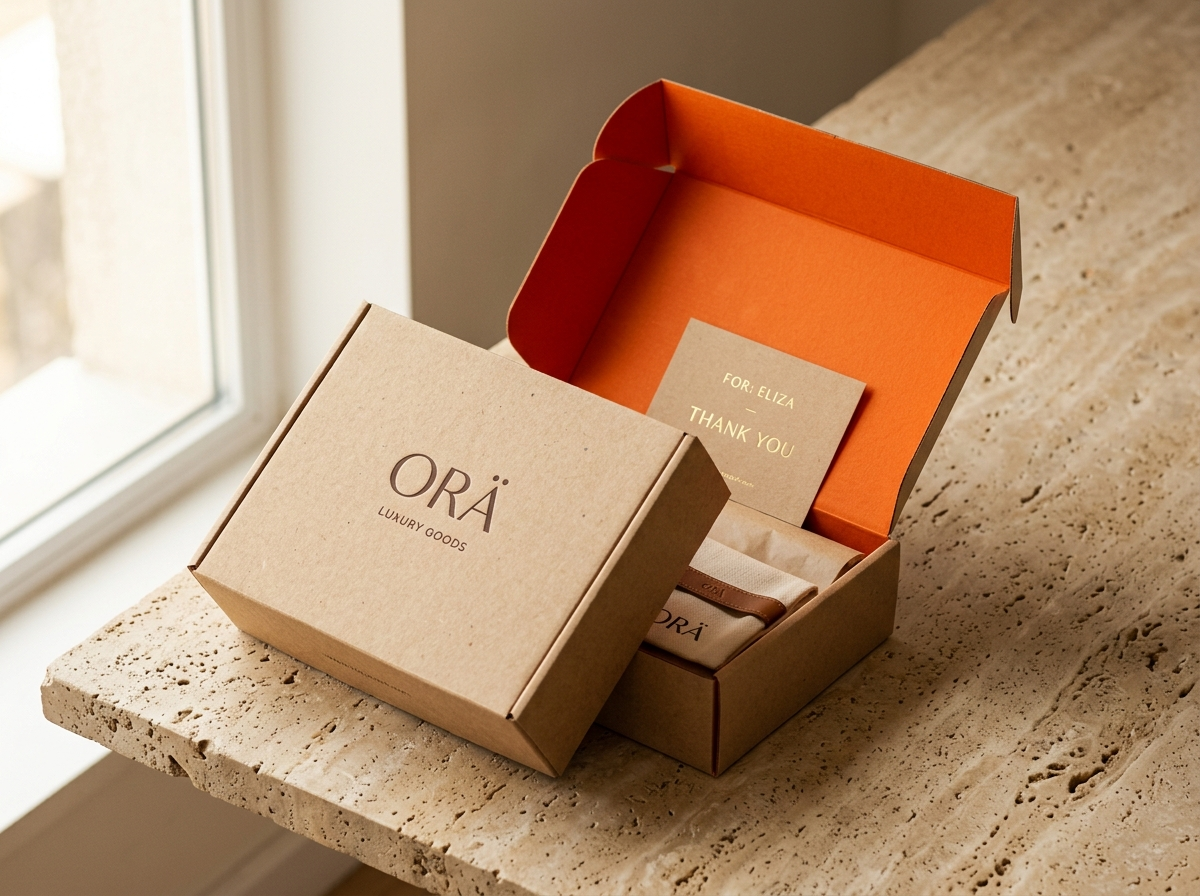
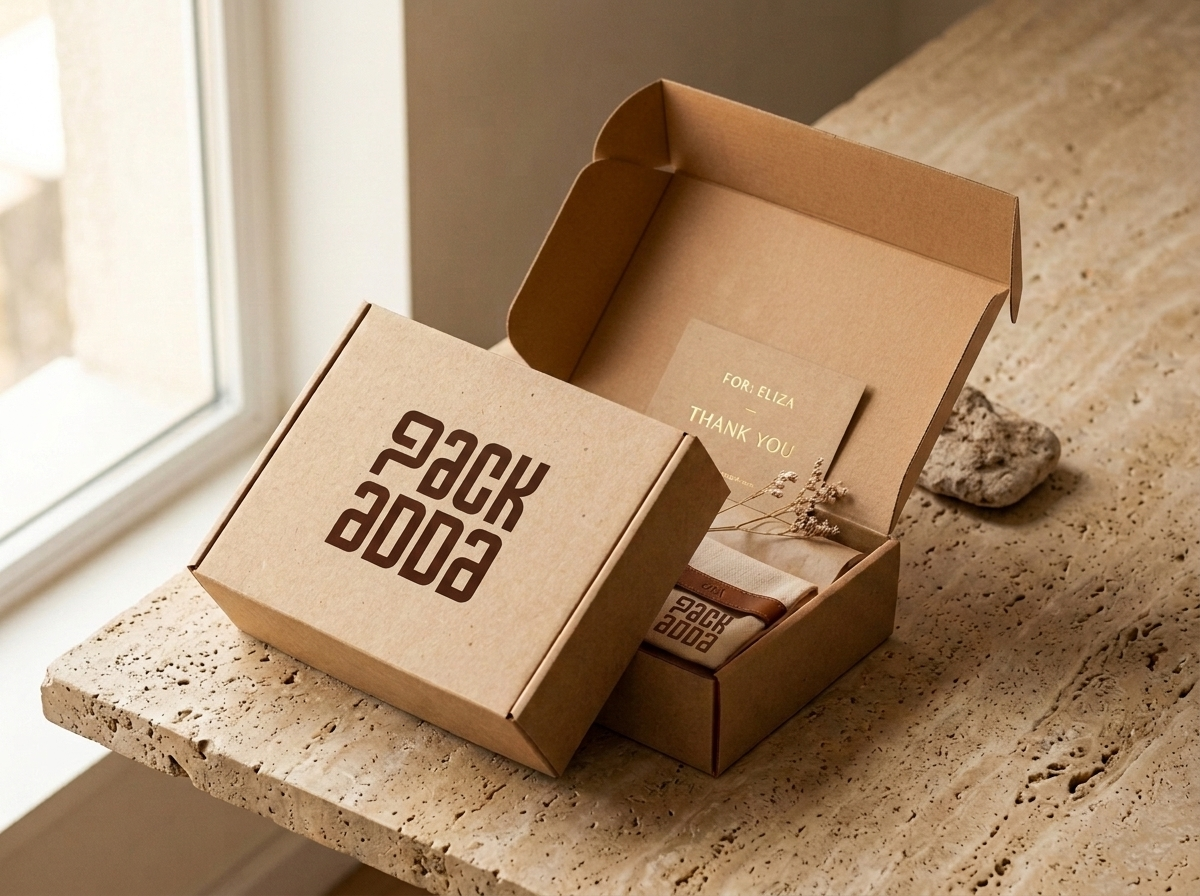
fix(hero): replace box image with natural plywood kraft interior and official Pack Adda branding

Changed region(s): [[0.4008, 0.0938, 0.925, 0.625], [0.2775, 0.4375, 0.4625, 0.6875], [0.5242, 0.6562, 0.6167, 0.7188]]

diff --git a/src/data/catalogProducts.js b/src/data/catalogProducts.js
@@ -5,7 +5,7 @@ export const CATALOG_PRODUCTS = [
     category: 'Boxes',
     title: 'Custom Boxes',
     subtitle: 'Tuck-in Type • 250 GSM Only',
-    image: '/images/products/boxes.jpg',
+    image: '/images/products/boxes.jpg?v=2',
     description:
       'Tuck-in type packaging boxes manufactured in 250 GSM paperboard. Min. 50 units (Plain) / 100 units (With Logo).',
     specs: {

diff --git a/src/components/HeroContent.jsx b/src/components/HeroContent.jsx
@@ -8,7 +8,7 @@ const HERO_CATEGORIES = [
   {
     id: 'custom-boxes',
     label: 'Custom Boxes',
-    image: '/images/products/boxes.jpg',
+    image: '/images/products/boxes.jpg?v=2',
     tagline: 'Rigid & corrugated custom mailers',
     accentColor: '#D5683F'
   },
